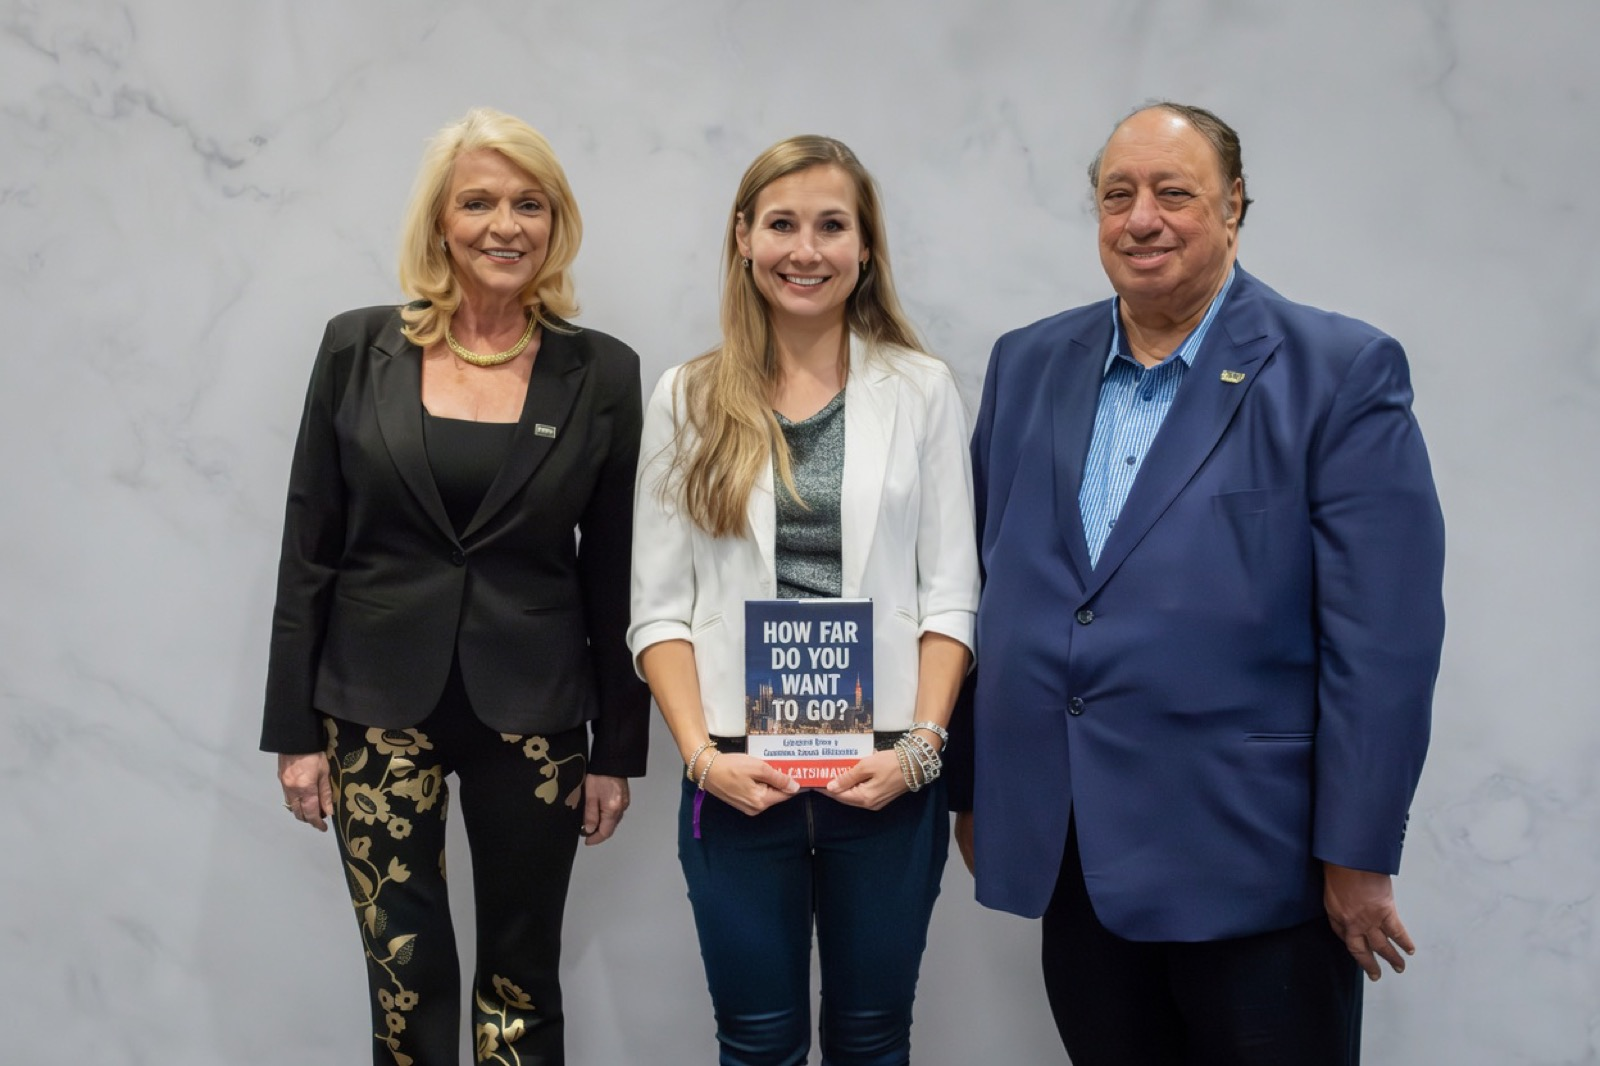
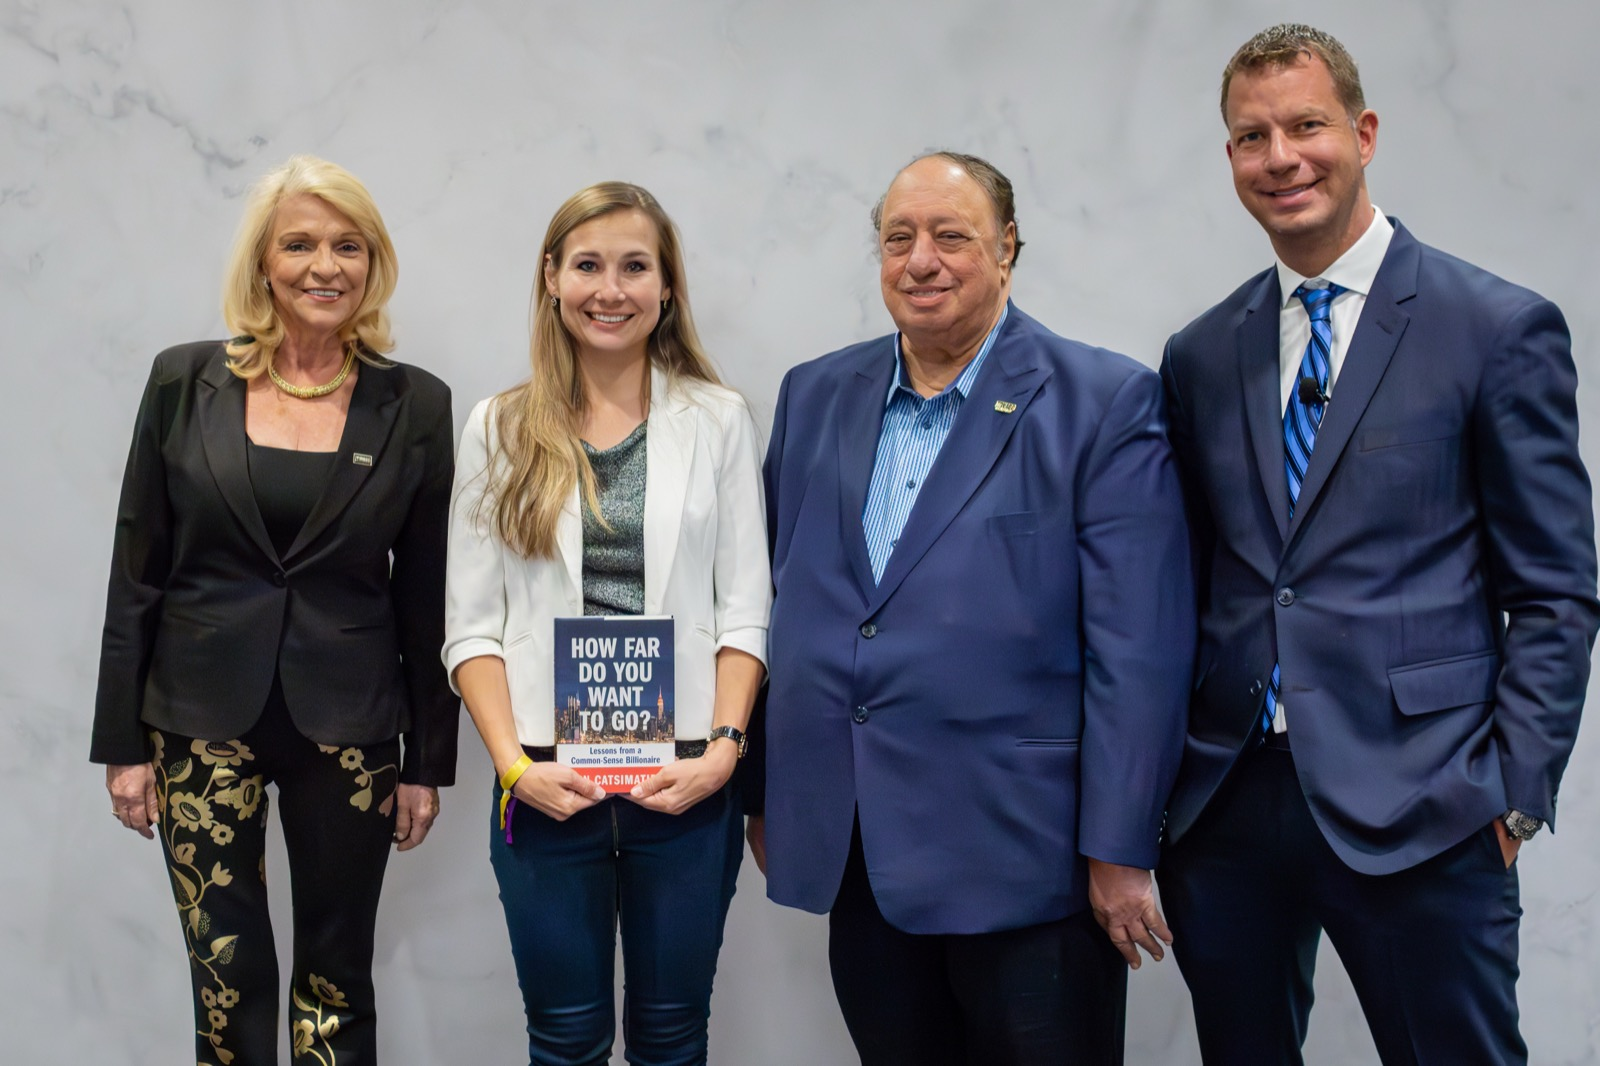
Replace Catsimatis In the Room photo with group shot
Swap in-the-room-ny.jpg for the Billionaire Catsimatis group photo
and center the crop for the landscape frame.

diff --git a/index.html b/index.html
@@ -662,7 +662,7 @@
                 <!-- Photo 2: NY with Catsimatis + JT Foxx -->
                 <div onclick="showRoomStory(1)" class="group bg-white border border-slate-200 rounded-3xl overflow-hidden shadow-sm hover:shadow-md active:scale-[0.985] active:bg-slate-50 transition-all cursor-pointer touch-manipulation">
                     <div class="overflow-hidden aspect-[4/5] bg-slate-100">
-                        <img src="assets/in-the-room-ny.jpg" alt="Sarka with JT Foxx and billionaire entrepreneur Catsimatis in New York" class="w-full h-full object-cover object-[center_20%] group-hover:scale-[1.02] transition-transform duration-500">
+                        <img src="assets/in-the-room-ny.jpg" alt="Sarka with JT Foxx and billionaire entrepreneur Catsimatis in New York" class="w-full h-full object-cover object-center group-hover:scale-[1.02] transition-transform duration-500">
                     </div>
                     <div class="p-5 flex items-center justify-between gap-3">
                         <p class="room-card-title text-sm font-medium text-slate-800">With JT Foxx and billionaire entrepreneur John Catsimatis in New York</p>
